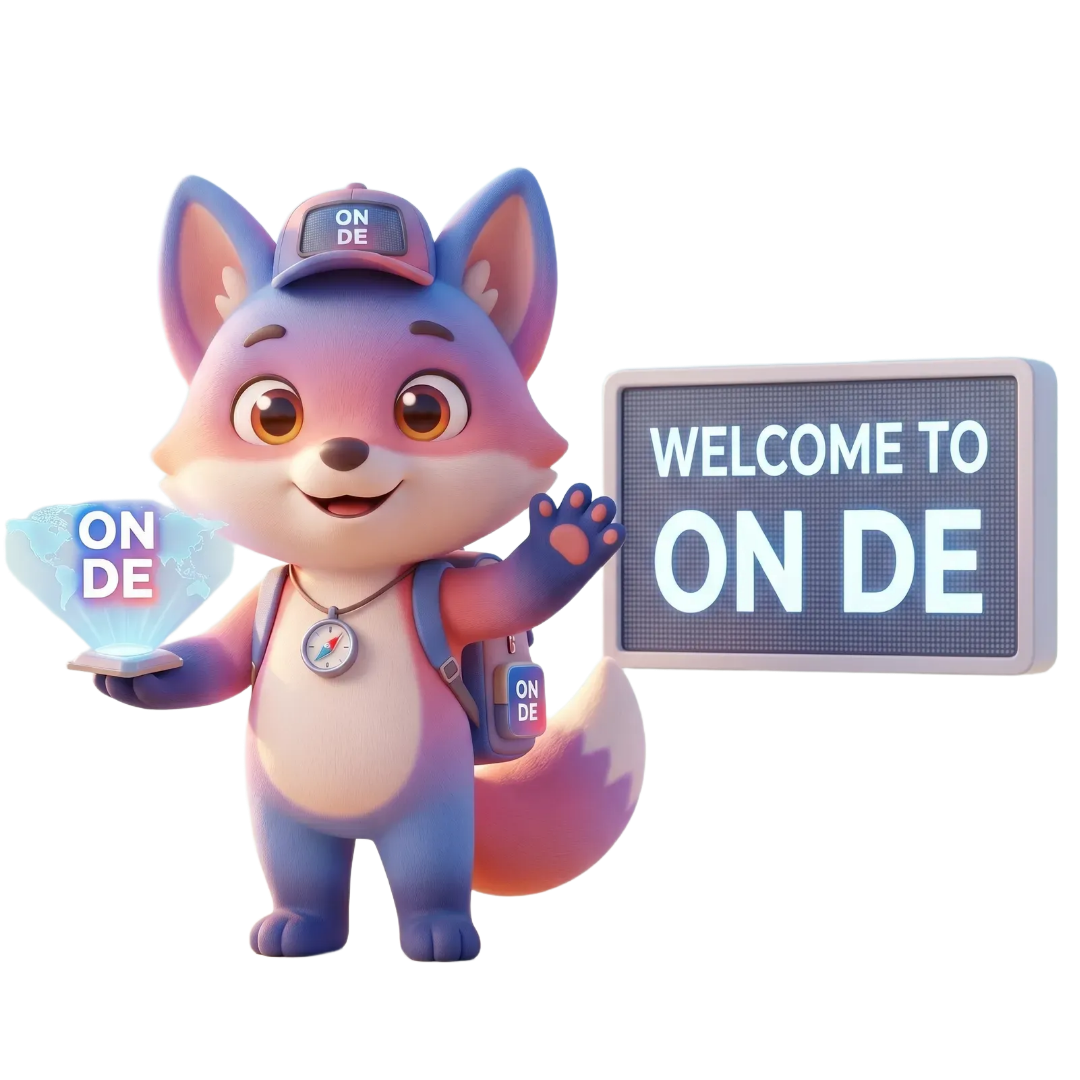
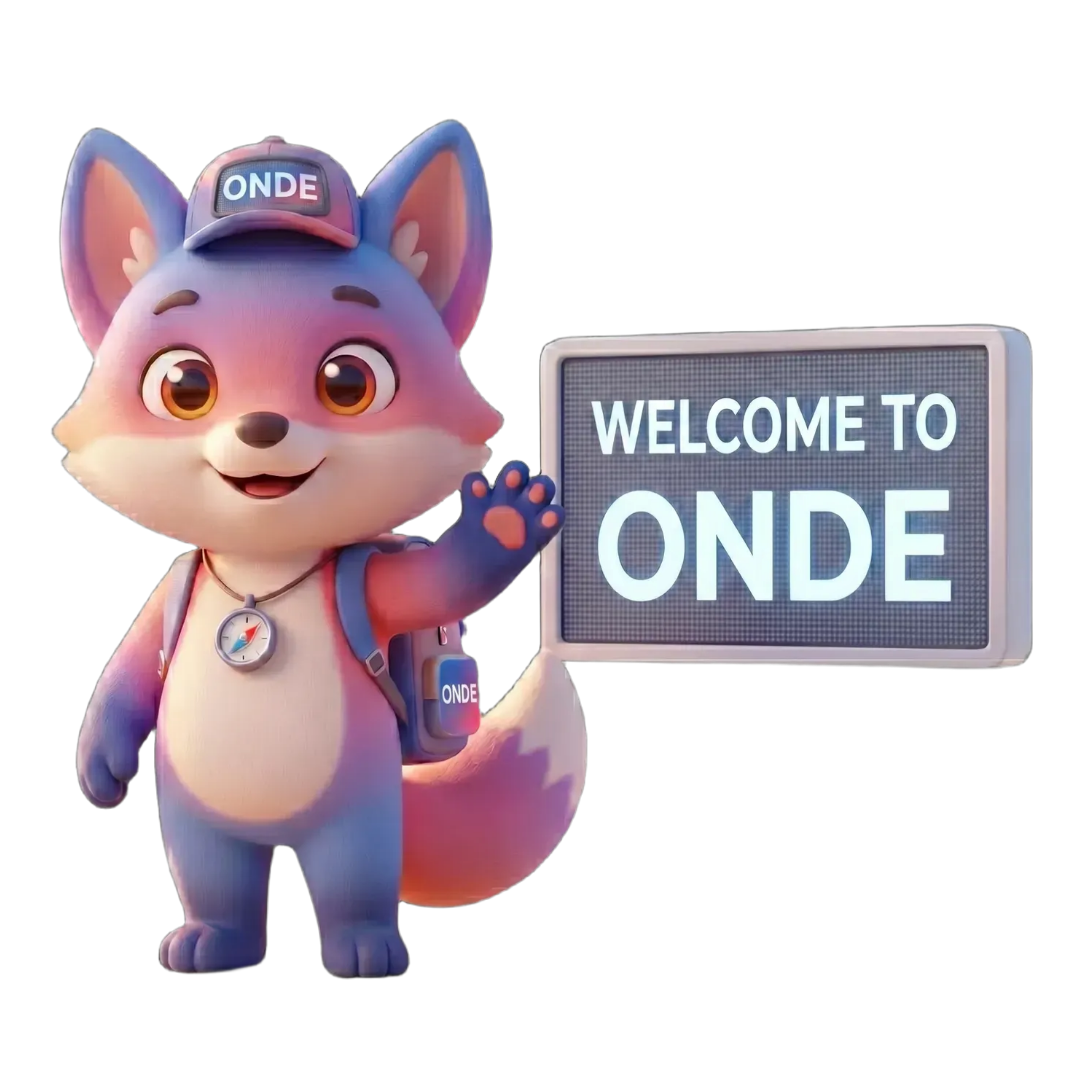
feat: 에러 개별 이미지 설정

diff --git a/src/pages/ErrorPage.tsx b/src/pages/ErrorPage.tsx
@@ -1,6 +1,8 @@
 import React, { useState } from 'react';
 import { useNavigate } from 'react-router-dom';
-import errorImg from '@/assets/error.png';
+import error404 from '@/assets/404.png';
+import error500 from '@/assets/500.png';
+import error503 from '@/assets/503.png';
 
 type ErrorType = '404' | '500' | '503';
 
@@ -33,7 +35,7 @@ export const ErrorPage: React.FC<ErrorPageProps> = ({ errorCode }) => {
               {/* Mascot overlaid center */}
               <div className="absolute inset-0 flex items-center justify-center">
                 <img
-                  src={errorImg}
+                  src={error404}
                   alt="404 마스코트"
                   style={{ width: '320px', height: '320px', objectFit: 'contain', filter: 'drop-shadow(0 12px 32px rgba(0,0,0,0.14))' }}
                 />
@@ -86,7 +88,7 @@ export const ErrorPage: React.FC<ErrorPageProps> = ({ errorCode }) => {
               </span>
               <div className="absolute inset-0 flex items-center justify-center">
                 <img
-                  src={errorImg}
+                  src={error500}
                   alt="500 마스코트"
                   style={{ width: '320px', height: '320px', objectFit: 'contain', filter: 'drop-shadow(0 12px 32px rgba(0,0,0,0.14)) grayscale(30%)' }}
                 />
@@ -137,7 +139,7 @@ export const ErrorPage: React.FC<ErrorPageProps> = ({ errorCode }) => {
               </span>
               <div className="absolute inset-0 flex items-center justify-center">
                 <img
-                  src={errorImg}
+                  src={error503}
                   alt="점검 마스코트"
                   style={{ width: '320px', height: '320px', objectFit: 'contain', filter: 'drop-shadow(0 12px 32px rgba(0,0,0,0.14)) sepia(20%)' }}
                 />